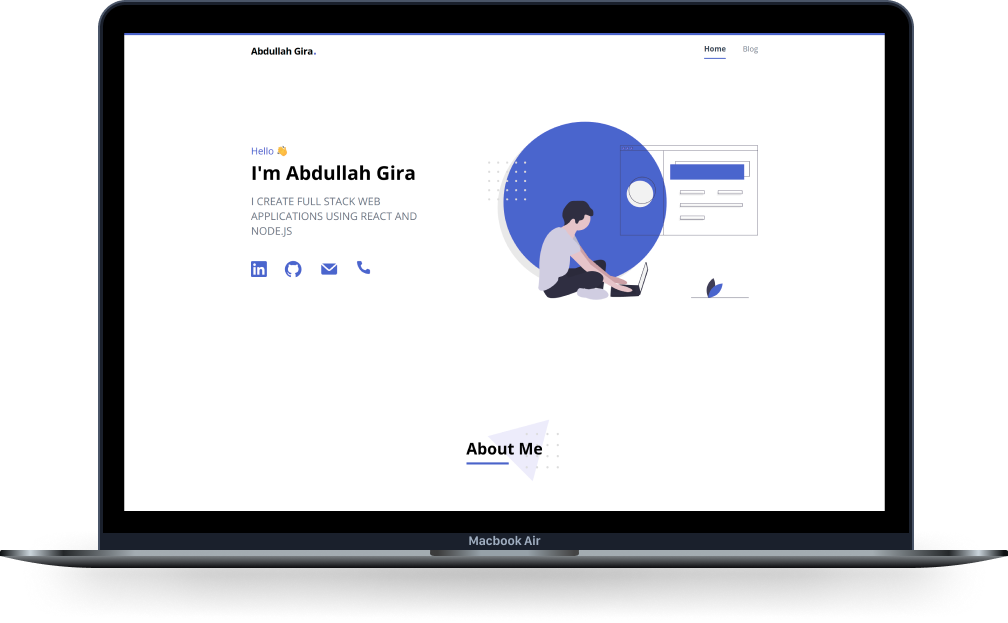
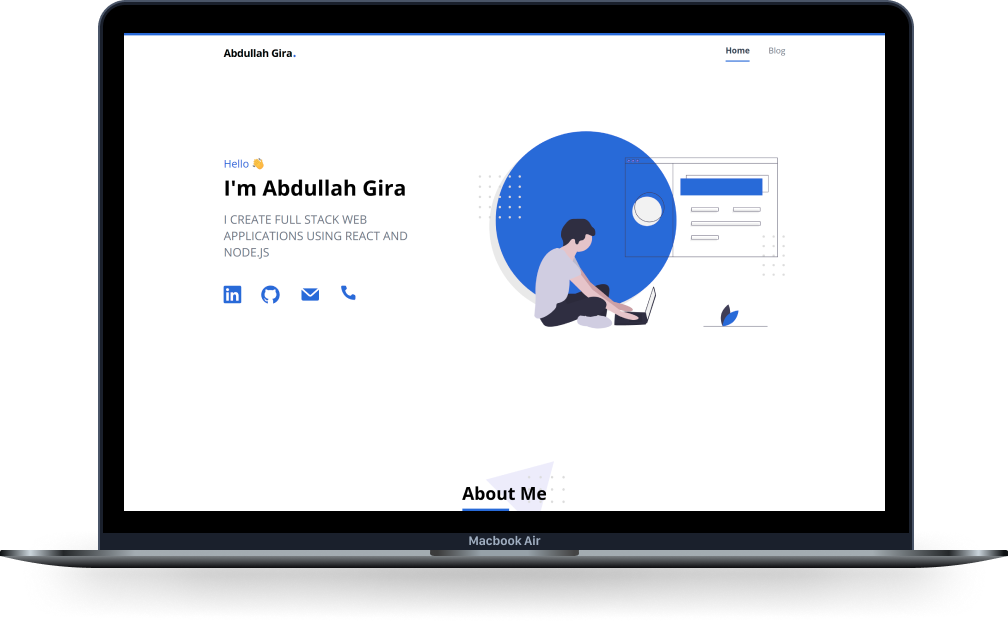
Updated the colors of the application

diff --git a/components/work-section.js b/components/work-section.js
@@ -1,4 +1,6 @@
 import Link from "next/link"
+import MoviePlayIcon from "./icons/movie-play-icon"
+import LinkIcon from "./icons/link-icon"
 
 export default function WorkSection() {
   return (
@@ -14,7 +16,7 @@ export default function WorkSection() {
           alt="decorating small circles"
           className="absolute w-16 -top-5 left-1/2 ml-10 -z-1"
         />
-        <div className="w-20 h-1 bg-indigo-700 absolute -bottom-3 right-1/2 -mr-4"></div>
+        <div className="w-20 h-1 bg-blue-700 absolute -bottom-3 right-1/2 -mr-4"></div>
         <h2 className="text-3xl text-center font-bold">My Work</h2>
       </div>
 
@@ -33,6 +35,10 @@ export default function WorkSection() {
           <ProjectUtilized>
             React, Node.js, MongoDB, JWT, Firebase Storage, Email service
           </ProjectUtilized>
+          <ProjectLinks
+            projectLink="https://itracker.netlify.app"
+            videoLink="video link"
+          />
         </div>
       </ProjectContainer>
 
@@ -59,7 +65,7 @@ export default function WorkSection() {
           className="lg:mr-20"
         />
         <div className="max-w-xs sm:max-w-sm">
-          <ProjectTitle>This Portfolio</ProjectTitle>
+          <ProjectTitle>My Portfolio</ProjectTitle>
           <ProjectDescription>
             My personal portfolio where I share my latest works and blog about
             web technologies.
@@ -105,7 +111,7 @@ function ProjectTitle({children}) {
 function ProjectDescription({children}) {
   return (
     <div className="mb-8">
-      <h4 className="text-indigo-700 font-bold tracking-widest mb-3">
+      <h4 className="text-blue-700 font-bold tracking-widest mb-3">
         Description
       </h4>
       <p className="text-gray-700 tracking-wide leading-relaxed">{children}</p>
@@ -116,9 +122,7 @@ function ProjectDescription({children}) {
 function ProjectUtilized({children}) {
   return (
     <div className="mb-8">
-      <h4 className="text-indigo-700 font-bold tracking-widest mb-3">
-        Utilized
-      </h4>
+      <h4 className="text-blue-700 font-bold tracking-widest mb-3">Utilized</h4>
       <p className="text-gray-700 tracking-wide leading-relaxed">{children}</p>
     </div>
   )
@@ -126,15 +130,25 @@ function ProjectUtilized({children}) {
 
 function ProjectLinks({videoLink, projectLink}) {
   return (
-    <div>
+    <div className="flex flex-wrap gap-5 lg:gap-10">
       {videoLink ? (
         <Link as={videoLink} href={videoLink}>
-          <a>Watch the demo</a>
+          <a className="text-blue-700 border-b-2 border-blue-700 hover:text-blue-900 flex items-center gap-3">
+            <MoviePlayIcon size="24" />
+            <span>Watch the demo</span>
+          </a>
         </Link>
       ) : null}
       {projectLink ? (
         <Link as={projectLink} href={projectLink}>
-          <a>Visit the project</a>
+          <a
+            className="text-blue-700 border-b-2 border-blue-700 hover:text-blue-900 flex items-center gap-3"
+            target="_blank"
+            rel="noopener"
+          >
+            <LinkIcon size="24" />
+            <span>Visit the project</span>
+          </a>
         </Link>
       ) : null}
     </div>

diff --git a/components/icons/linkedin-icon.js b/components/icons/linkedin-icon.js
@@ -4,19 +4,19 @@ export default function LinkedIn({size, className}) {
       xmlns="http://www.w3.org/2000/svg"
       width={size}
       height={size}
-      fill="none"
+      fill="currentColor"
       viewBox="0 0 20 20"
       className={className}
     >
       <g clipPath="url(#clip0)">
         <path
-          fill="#4965CD"
+          fillRule="evenodd"
           d="M17.038 17.044h-2.959v-4.642c0-1.106-.023-2.529-1.546-2.529-1.543 0-1.778 1.2-1.778 2.448v4.723H7.793V7.499h2.845v1.302h.038c.398-.752 1.365-1.542 2.807-1.542 3 0 3.558 1.975 3.558 4.544v5.24l-.003.001zM4.447 6.195a1.719 1.719 0 01-1.429-2.678 1.72 1.72 0 111.429 2.678zm1.484 10.85H2.962V7.5h2.969v9.544zM18.522 0H1.476C.661 0 0 .644 0 1.442v17.117C0 19.356.66 20 1.475 20h17.044c.814 0 1.481-.645 1.481-1.442V1.442C20 .644 19.332 0 18.52 0h.003z"
         ></path>
       </g>
       <defs>
         <clipPath id="clip0">
-          <path fill="#fff" d="M0 0H20V20H0z"></path>
+          <path fillRule="evenodd" d="M0 0H20V20H0z"></path>
         </clipPath>
       </defs>
     </svg>

diff --git a/components/icons/github-icon.js b/components/icons/github-icon.js
@@ -4,12 +4,12 @@ export default function GithubIcon({size, className}) {
       xmlns="http://www.w3.org/2000/svg"
       width={size}
       height={size}
-      fill="none"
+      fill="currentColor"
       viewBox="0 0 24 24"
       className={className}
     >
       <path
-        fill="#4965CD"
+        fillRule="evenodd"
         d="M11.99 1.788C6.196 1.786 1.5 6.478 1.5 12.27c0 4.58 2.937 8.472 7.027 9.902.55.138.466-.253.466-.52v-1.817c-3.18.373-3.31-1.732-3.523-2.083-.43-.736-1.45-.924-1.146-1.275.724-.373 1.463.093 2.318 1.357.619.916 1.826.761 2.438.609.133-.55.42-1.043.813-1.425-3.295-.59-4.669-2.602-4.669-4.992 0-1.16.382-2.227 1.132-3.087-.478-1.418.045-2.632.115-2.812 1.362-.122 2.777.975 2.888 1.061.773-.208 1.657-.318 2.646-.318.993 0 1.88.114 2.66.325.265-.201 1.577-1.143 2.843-1.029.068.18.579 1.367.129 2.766.76.863 1.146 1.938 1.146 3.1 0 2.396-1.383 4.41-4.688 4.99a2.987 2.987 0 01.893 2.134v2.636c.019.211 0 .42.352.42 4.15-1.4 7.139-5.32 7.139-9.94 0-5.794-4.697-10.484-10.488-10.484z"
       ></path>
     </svg>

diff --git a/components/icons/link-icon.js b/components/icons/link-icon.js
@@ -1,0 +1,17 @@
+export default function LinkIcon({size, className}) {
+  return (
+    <svg
+      xmlns="http://www.w3.org/2000/svg"
+      width={size}
+      height={size}
+      fill="currentColor"
+      viewBox="0 0 12 12"
+      className={className}
+    >
+      <path
+        fillRule="evenodd"
+        d="M6.727 7.798a.094.094 0 00-.133 0L5.232 9.159c-.63.63-1.694.698-2.39 0a1.683 1.683 0 010-2.39l1.361-1.362a.094.094 0 000-.132l-.466-.467a.094.094 0 00-.132 0L2.243 6.17a2.534 2.534 0 000 3.586c.991.99 2.596.991 3.586 0L7.19 8.394a.094.094 0 000-.132l-.464-.464zm3.03-5.555a2.534 2.534 0 00-3.586 0L4.808 3.605a.094.094 0 000 .132l.465.465a.094.094 0 00.133 0l1.362-1.361a1.683 1.683 0 012.39 0c.697.697.63 1.76 0 2.39L7.796 6.593a.094.094 0 000 .132l.467.467a.094.094 0 00.132 0L9.757 5.83c.99-.991.99-2.596 0-3.587zM7.15 4.363a.094.094 0 00-.133 0L4.363 7.016a.094.094 0 000 .132l.464.464a.094.094 0 00.132 0L7.612 4.96a.094.094 0 000-.132l-.462-.464z"
+      ></path>
+    </svg>
+  )
+}

diff --git a/components/portfolio-hero.js b/components/portfolio-hero.js
@@ -8,7 +8,7 @@ export default function PortfolioHero() {
   return (
     <div className="flex flex-col items-center lg:flex-row lg:justify-between my-28">
       <div className="order-2 lg:order-1 text-center lg:text-left mt-10 lg:mt-0">
-        <h3 className="text-lg mb-2 text-indigo-700">Hello 👋</h3>
+        <h3 className="text-lg mb-2 text-blue-700">Hello 👋</h3>
         <h1 className="text-3xl md:text-4xl font-bold mb-5">
           I'm Abdullah Gira
         </h1>
@@ -16,7 +16,7 @@ export default function PortfolioHero() {
           I create full stack web applications using React and Node.js
         </h2>
 
-        <div className="flex items-center gap-8  justify-center lg:justify-start flex-wrap">
+        <div className="flex items-center gap-8 justify-center lg:justify-start flex-wrap text-blue-700">
           <Link
             as="https://www.linkedin.com/in/abdullahgira/"
             href="https://www.linkedin.com/in/abdullahgira/"

diff --git a/components/skills-section.js b/components/skills-section.js
@@ -12,7 +12,7 @@ export default function SkillsSection() {
           alt="decorating small circles"
           className="absolute w-16 -top-5 right-1/2 mr-20 -z-1"
         />
-        <div className="w-20 h-1 bg-indigo-700 absolute -bottom-3 right-1/2 -mr-4"></div>
+        <div className="w-20 h-1 bg-blue-700 absolute -bottom-3 right-1/2 -mr-4"></div>
         <h2 className="text-3xl text-center font-bold">My Skills</h2>
       </div>
 
@@ -52,7 +52,7 @@ export default function SkillsSection() {
 function Skill({logo, children}) {
   return (
     <div className="bg-white rounded-xl flex items-start p-5 shadow-xl max-w-md">
-      <div className="p-6 rounded-xl bg-indigo-900 shadow-xl inline-block mr-5 flex-none">
+      <div className="p-6 rounded-xl bg-blue-900 shadow-xl inline-block mr-5 flex-none">
         <img className="w-20" src={logo} alt="skill logo" />
       </div>
       <div className="mt-2 inline-block">{children}</div>

diff --git a/components/about-section.js b/components/about-section.js
@@ -36,7 +36,7 @@ function AboutSection() {
           alt="decorating small circles"
           className="absolute w-16 -top-3 left-1/2 ml-10 -z-10"
         />
-        <div className="w-20 h-1 bg-indigo-700 absolute -bottom-3 right-1/2 -mr-2"></div>
+        <div className="w-20 h-1 bg-blue-700 absolute -bottom-3 right-1/2 -mr-2"></div>
         <h2 className="text-3xl text-center font-bold">About Me</h2>
       </div>
 
@@ -46,7 +46,7 @@ function AboutSection() {
           alt="developer looking at code"
         />
         <PortfolioSectionContent>
-          <p className="text-lg mb-2 text-indigo-700">Who am I?</p>
+          <p className="text-lg mb-2 text-blue-700">Who am I?</p>
           <h3 className="text-3xl mb-10 font-bold">
             I create full stack applications using the MERN Stack
           </h3>

diff --git a/components/blog-section.js b/components/blog-section.js
@@ -16,7 +16,7 @@ export default function BlogSection({lastThreePosts = []}) {
             alt="decorating small circles"
             className="absolute w-16 -top-3 left-1/2 ml-10 -z-10"
           />
-          <div className="w-20 h-1 bg-indigo-700 absolute -bottom-3 right-1/2 -mr-5"></div>
+          <div className="w-20 h-1 bg-blue-700 absolute -bottom-3 right-1/2 -mr-5"></div>
           <h2 className="text-3xl text-center font-bold">My Blog</h2>
         </div>
         <p>
@@ -44,7 +44,7 @@ export default function BlogSection({lastThreePosts = []}) {
               </a>
             </Link>
 
-            <p className="text-indigo-700 mt-1">{post.readTime} Min Read</p>
+            <p className="text-blue-700 mt-1">{post.readTime} Min Read</p>
           </div>
         ))}
       </div>

diff --git a/components/navbar.js b/components/navbar.js
@@ -7,7 +7,7 @@ export default function Navbar() {
   const router = useRouter()
 
   return (
-    <nav className="mb-10 border-t-4 border-indigo-700">
+    <nav className="mb-10 border-t-4 border-blue-700">
       <div className="max-w-5xl mx-auto px-5 md:px-8">
         <div className="flex justify-between items-center">
           <div className="py-2 mr-auto">
@@ -16,7 +16,7 @@ export default function Navbar() {
                 <span className="text-lg font-bold tracking-tight">
                   Abdullah Gira
                 </span>
-                <span className="text-3xl text-indigo-700">.</span>
+                <span className="text-3xl text-blue-700">.</span>
               </a>
             </Link>
           </div>

diff --git a/components/icons/movie-play-icon.js b/components/icons/movie-play-icon.js
@@ -1,0 +1,18 @@
+export default function MoviePlayIcon({size, className}) {
+  return (
+    <svg
+      xmlns="http://www.w3.org/2000/svg"
+      width={size}
+      height={size}
+      fill="currentColor"
+      viewBox="0 0 12 12"
+      className={className}
+    >
+      <path
+        fillRule="evenodd"
+        d="M10 1.5H2c-.552 0-1 .448-1 1v7c0 .552.448 1 1 1h8c.552 0 1-.448 1-1v-7c0-.552-.448-1-1-1zm0 3h-.232l-1.334-2H10v2zm-5.232 0l-1.333-2h1.297l1.334 2H4.768zm2.5 0l-1.333-2h1.298l1.333 2H7.268zM2 2.5h.232l1.334 2H2v-2zm0 7v-4h8l.001 4H2z"
+      ></path>
+      <path fillRule="evenodd" d="M5 9l2.75-1.5L5 6v3z"></path>
+    </svg>
+  )
+}

diff --git a/components/icons/phone-icon.js b/components/icons/phone-icon.js
@@ -4,12 +4,12 @@ export default function PhoneIcon({size, className}) {
       xmlns="http://www.w3.org/2000/svg"
       width={size}
       height={size}
-      fill="none"
+      fill="currentColor"
       viewBox="0 0 24 24"
       className={className}
     >
       <path
-        fill="#4965CD"
+        fillRule="evenodd"
         d="M12.706 13.425l1.4-1.4a1.369 1.369 0 011.463-.3l1.706.681a1.36 1.36 0 01.85 1.25v3.125a1.356 1.356 0 01-1.425 1.344C4.744 17.381 2.331 7.256 1.875 3.381a1.356 1.356 0 011.356-1.506H6.25a1.35 1.35 0 011.25.85l.681 1.706a1.35 1.35 0 01-.293 1.463l-1.4 1.4s.806 5.456 6.218 6.131z"
       ></path>
     </svg>

diff --git a/components/icons/envelope-icon.js b/components/icons/envelope-icon.js
@@ -4,12 +4,12 @@ export default function EnvelopeIcon({size, className}) {
       xmlns="http://www.w3.org/2000/svg"
       width={size}
       height={size}
-      fill="none"
+      fill="currentColor"
       viewBox="0 0 24 24"
       className={className}
     >
       <path
-        fill="#4965CD"
+        fillRule="evenodd"
         d="M20.572 5.083l-7.896 7.037a1 1 0 01-1.331 0L3.416 5.087A2 2 0 014 5h16a2 2 0 01.572.083zm1.356 1.385c.047.17.072.348.072.532v10a2 2 0 01-2 2H4a2 2 0 01-2-2V7a2 2 0 01.072-.534l7.942 7.148a3 3 0 003.992 0l7.922-7.146z"
       ></path>
     </svg>
